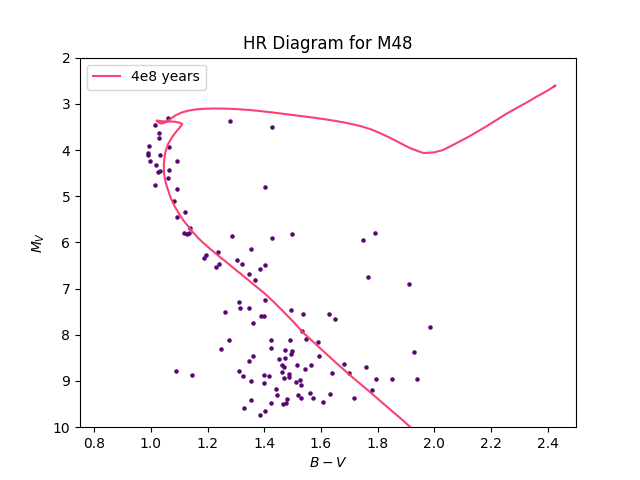
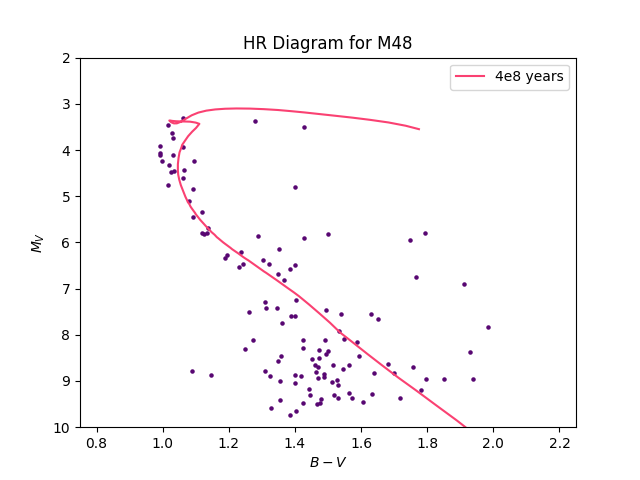
Fixed M48

diff --git a/DN3/M48/main_m48.py b/DN3/M48/main_m48.py
@@ -92,7 +92,7 @@ plt.plot(iso_b_app-iso_v_app + 1.075, v_iso + 4.1, c="#fa4172", label="4e8 years
 plt.title("HR Diagram for M48")
 plt.xlabel(r"$B - V$")
 plt.ylabel(r"$M_V$")
-plt.xlim(0.75, 2.5)
+plt.xlim(0.75, 2.25)
 plt.ylim(2, 10)
 ax.invert_yaxis()
 plt.legend()
